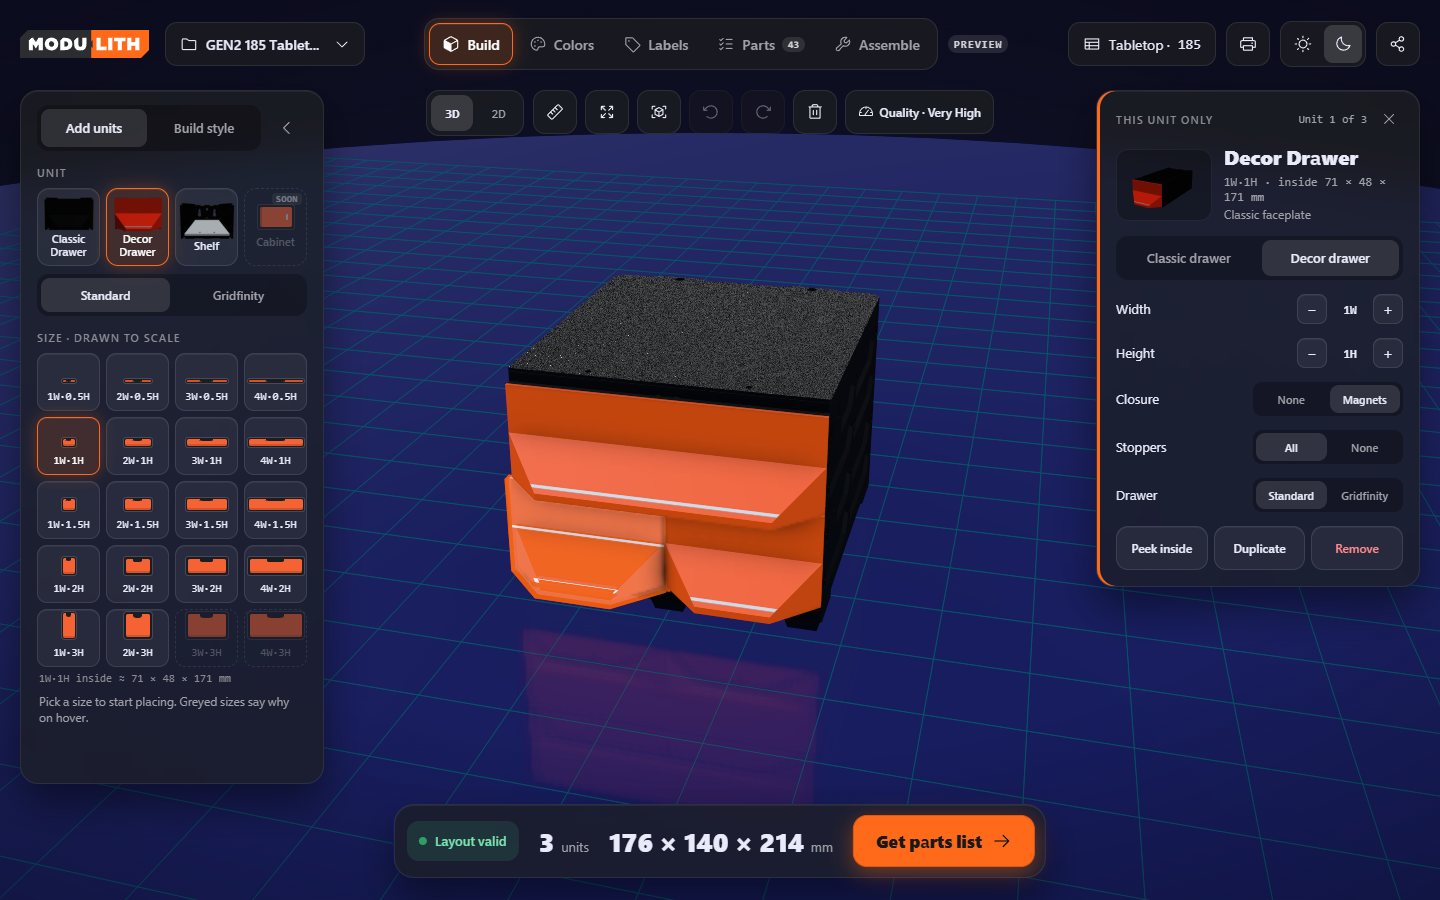
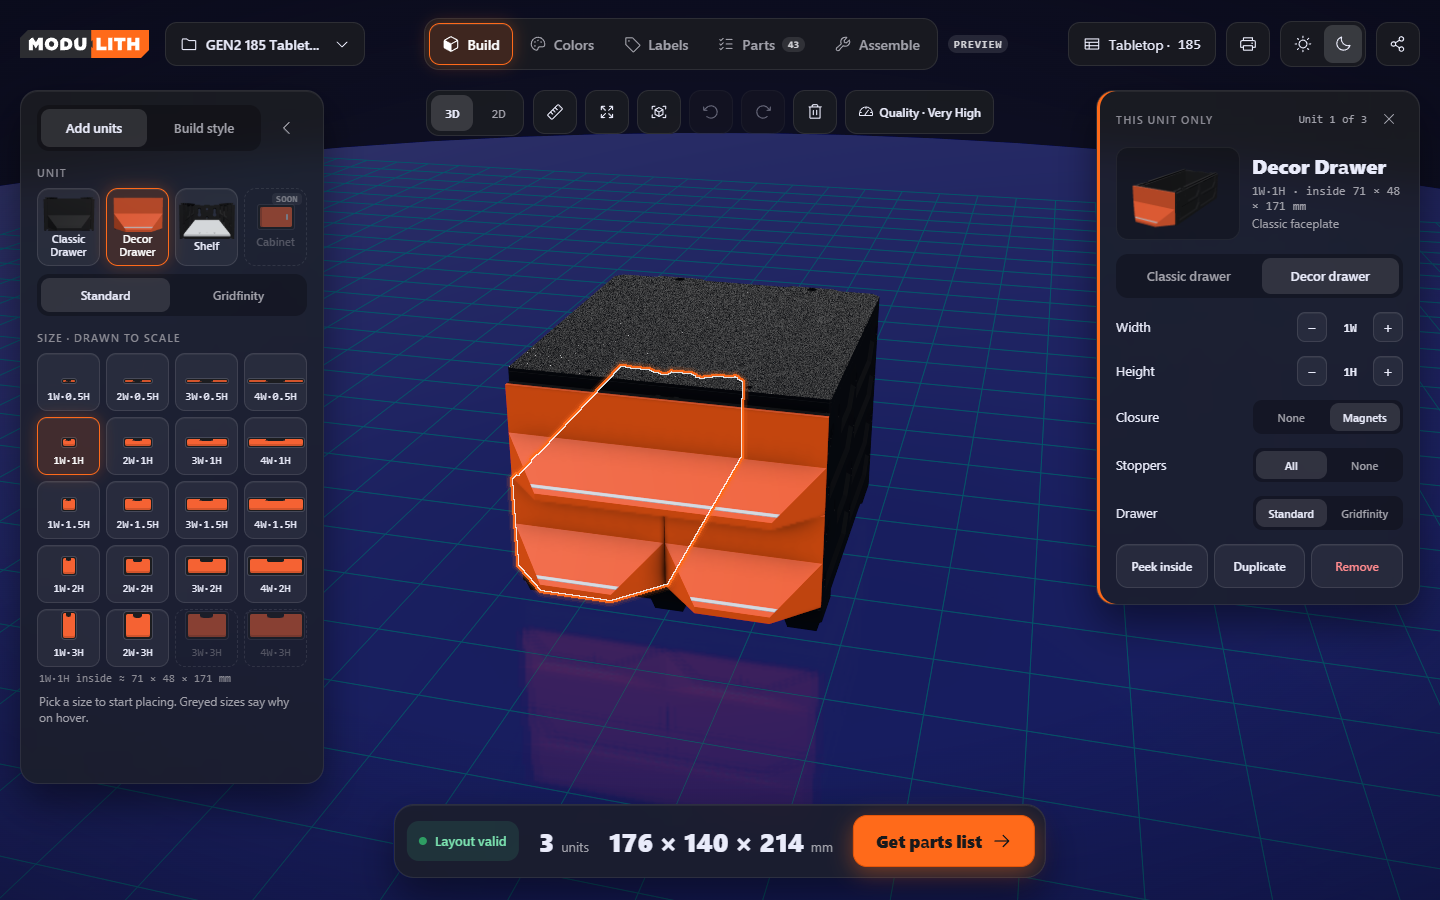
Selection as a screen-space silhouette, placement markers as controls, previews framed on the handle
The two-rim inverted hull highlight is gone: on a drawer with slotted walls it drew its own back faces through
the slots and over the plate, which read as the highlight clipping into the drawer. The selected unit's meshes are
now tagged into a camera layer and drawn into a mask after each frame's composite; a full-screen pass draws a
2.2 px orange ring where the mask ends, a glow that fades in three steps, and a one-pixel white line inside. The
rim colour is given in sRGB components, since a raw shader writes unconverted. Nothing is added to the scene, so
the material appearance is untouched (Astra's condition).

Placement markers are screen-facing sprites, a round orange control with a white plus, with the full ghost on
hover or a touch choice; only the visible marker or ghost is a hit target. Handle previews are framed around the
handle with the plate behind for context; the inspector preview fills a 124 x 93 well at a 512 px render.

Decisions recorded: gravity stays (Joey), mobile is an explicit milestone before cutover (after Colors), Colors'
acceptance check (model, option previews and inspector agree after a colour change, a build switch and Undo).

Review: Sol 01a1330b, three findings confirmed and fixed. Goldens 60/60; stage import green.

diff --git a/js/main.js b/js/main.js
@@ -6000,11 +6000,56 @@ let selAnchor = new THREE.Vector3(); // selected part's bbox-center offset from 
 let selOutline = null;
 /* two rims: a white inner one that reads against an orange filament, an orange outer one that reads against
    the stage, so the selection is unmistakable whatever the unit wears */
-const selOutlineMats = [
-  { scale: 1.025, mat: new THREE.MeshBasicMaterial({ color: 0xffffff, side: THREE.BackSide, transparent: true, opacity: 0.95, depthWrite: false, toneMapped: false }) },
-  { scale: 1.055, mat: new THREE.MeshBasicMaterial({ color: 0xff6a1a, side: THREE.BackSide, transparent: true, opacity: 0.9, depthWrite: false, toneMapped: false }) },
-];
-function clearSelOutline() { if (selOutline) { scene.remove(selOutline); selOutline = null; } }
+/* ---- the selection silhouette (Astra 2026-10-14: "a thin outer silhouette that preserves the normal material
+   appearance") ---------------------------------------------------------------------------------------------------
+   Nothing is added to the scene. The selected unit's meshes are tagged into layer 1; each frame, after the
+   composite, they are drawn flat into a mask (an override material, the camera seeing layer 1 only), and a
+   full-screen pass draws an orange ring where the mask ends, a soft glow outside it and a one-pixel white line
+   inside, over the finished frame. The inverted hull it replaces drew its own back faces through a drawer's slots
+   and over the plate (Joey: "is the highlight clipping into the drawer?"). */
+const SEL_LAYER = 1;
+let selMembers = [], selFx = null;
+const _selClear = new THREE.Color();
+function ensureSelFx() {
+  if (selFx) return selFx;
+  const rt = new THREE.WebGLRenderTarget(4, 4, { depthBuffer: true });
+  const maskMat = new THREE.MeshBasicMaterial({ color: 0xffffff, toneMapped: false });
+  const mat = new THREE.ShaderMaterial({
+    // sRGB components, not a THREE.Color: a raw shader writes to the canvas unconverted, and Color stores linear (Sol 01a1330b)
+    uniforms: { tMask: { value: rt.texture }, uTexel: { value: new THREE.Vector2(1, 1) }, uColor: { value: new THREE.Vector3(255 / 255, 106 / 255, 26 / 255) } },
+    vertexShader: 'varying vec2 vUv; void main() { vUv = uv; gl_Position = vec4(position.xy, 0.0, 1.0); }',
+    fragmentShader: `
+      uniform sampler2D tMask; uniform vec2 uTexel; uniform vec3 uColor; varying vec2 vUv;
+      float m(vec2 o) { return texture2D(tMask, vUv + o * uTexel).a; }
+      void main() {
+        float c = m(vec2(0.0));
+        float ring = 0.0, g1 = 0.0, g2 = 0.0, g3 = 0.0, inner = 1.0;
+        for (int i = 0; i < 16; i++) {
+          float a = float(i) * 0.39269908;
+          vec2 d = vec2(cos(a), sin(a));
+          ring = max(ring, m(d * 2.2));
+          g1 = max(g1, m(d * 3.4)); g2 = max(g2, m(d * 4.6)); g3 = max(g3, m(d * 6.0));   // the glow fades out in three steps (Sol 01a1330b)
+          inner = min(inner, m(d * 1.4));
+        }
+        if (c > 0.5) { if (inner < 0.5) gl_FragColor = vec4(1.0, 1.0, 1.0, 0.85); else discard; return; }
+        if (ring > 0.5) { gl_FragColor = vec4(uColor, 0.95); return; }
+        if (g1 > 0.5) { gl_FragColor = vec4(uColor, 0.3); return; }
+        if (g2 > 0.5) { gl_FragColor = vec4(uColor, 0.16); return; }
+        if (g3 > 0.5) { gl_FragColor = vec4(uColor, 0.06); return; }
+        discard;
+      }`,
+    transparent: true, depthTest: false, depthWrite: false, toneMapped: false,
+  });
+  const qScene = new THREE.Scene(); const qCam = new THREE.OrthographicCamera(-1, 1, 1, -1, 0, 1);
+  qScene.add(new THREE.Mesh(new THREE.PlaneGeometry(2, 2), mat));
+  selFx = { rt, maskMat, mat, qScene, qCam };
+  return selFx;
+}
+function clearSelOutline() {
+  for (const inst of selMembers) inst.group.traverse(o => { if (o.isMesh) o.layers.disable(SEL_LAYER); });
+  selMembers = [];
+  invalidateFrame();
+}
 function unitMembers(host) {
   // the host and every instance whose `rides` chain reaches it (faceplate, handle, accent, label, cover)
   const out = [host];
@@ -6017,30 +6062,29 @@ function unitMembers(host) {
 }
 function showSelOutline(members) {
   clearSelOutline();
-  const g = new THREE.Group();
-  g.name = 'sel-outline';
-  const box = new THREE.Box3();
-  for (const inst of members) { inst.group.updateWorldMatrix(true, true); box.expandByObject(inst.group); }
-  if (box.isEmpty()) return;
-  const c = box.getCenter(new THREE.Vector3());
-  const unC = new THREE.Matrix4().makeTranslation(-c.x, -c.y, -c.z);
-  for (const { scale, mat } of selOutlineMats) {
-    const layer = new THREE.Group();
-    for (const inst of members) inst.group.traverse(o => {
-      if (!o.isMesh || !o.visible || !o.geometry) return;
-      const m = new THREE.Mesh(o.geometry, mat);
-      m.matrixAutoUpdate = false;
-      m.matrix.copy(o.matrixWorld).premultiply(unC);
-      m.castShadow = false; m.receiveShadow = false;
-      layer.add(m);
-    });
-    layer.scale.setScalar(scale);
-    g.add(layer);
+  selMembers = members.filter(Boolean);
+  for (const inst of selMembers) inst.group.traverse(o => { if (o.isMesh) o.layers.enable(SEL_LAYER); });
+  invalidateFrame();
+}
+/* drawn after the frame's composite (the loop), never into the accumulation or the AO passes */
+function drawSelOutline() {
+  if (!selMembers.length || !selMembers.some(i => i.group.visible)) return;
+  const fx = ensureSelFx();
+  const size = renderer.getDrawingBufferSize(new THREE.Vector2());
+  if (fx.rt.width !== size.x || fx.rt.height !== size.y) fx.rt.setSize(size.x, size.y);
+  const prevBg = scene.background, prevOv = scene.overrideMaterial, prevAuto = renderer.autoClear, prevMask = camera.layers.mask;
+  const prevClear = renderer.getClearColor(_selClear).clone(), prevAlpha = renderer.getClearAlpha();
+  try {
+    scene.background = null; scene.overrideMaterial = fx.maskMat; camera.layers.set(SEL_LAYER);
+    renderer.setRenderTarget(fx.rt); renderer.setClearColor(0x000000, 0); renderer.autoClear = true; renderer.clear();
+    renderer.render(scene, camera);
+  } finally {
+    scene.background = prevBg; scene.overrideMaterial = prevOv; camera.layers.mask = prevMask;
+    renderer.setRenderTarget(null); renderer.setClearColor(prevClear, prevAlpha); renderer.autoClear = prevAuto;
   }
-  g.position.copy(c);
-  g.renderOrder = -1;
-  scene.add(g);
-  selOutline = g;
+  fx.mat.uniforms.uTexel.value.set(1 / size.x, 1 / size.y);
+  renderer.autoClear = false;
+  try { renderer.render(fx.qScene, fx.qCam); } finally { renderer.autoClear = prevAuto; }
 }
 /* The shelf whose lip the identify card is editing (null when the selection is
    anything else). Assigned in setSelected, read by cycleLip further down.
@@ -7979,7 +8023,7 @@ canvas.addEventListener('pointerup', e => {
 const editGroup = new THREE.Group(); editGroup.name = 'edit-overlays'; scene.add(editGroup);
 const SPOT_COLORS = { add: 0xffcf5a, need: 0xff5a5a, hover: 0x5ad67a };
 let spotSpec = null, spotHover = null, flagHelpers = [], carry = null, dragSpec = null, eraser = null, eraseHelper = null, eraseId = null;
-function disposeObj(o) { o.traverse(c => { if (c.geometry) c.geometry.dispose(); if (c.material) c.material.dispose(); }); }
+function disposeObj(o) { o.traverse(c => { if (c.geometry) c.geometry.dispose(); if (c.material && !c.isSprite) c.material.dispose(); }); }   // sprite materials share the marker textures
 /* a cell's place in the world comes from a case the scene already holds: 88 mm per column, 28 mm per half row from it.
    Heights are compared as half-rows ABOVE THE MOUNT FRAME (the generator's own normalisation), because the caller's
    grid can differ from this record's (the store's tabletop grid tracks the build; the kit file's does not):
@@ -8017,19 +8061,29 @@ function plusMark(w, h, d, opacity = 0.85) {
 /* A SPOT is a small marker at the centre of the cell it names (Astra: quiet targets, never volumes that overlap and hide
    the build) plus a full-size translucent ghost of the unit that shows only for the hovered or chosen spot. The marker
    is drawn through everything (no depth test) so it is never lost behind a drawer; the ghost is the volume. */
-const SPOT_MARK = 18;
+const SPOT_MARK = 26;   // mm, the marker's world size (it always faces the camera)
+const spotTextures = {};
+function spotTexture(hex) {   // a round orange control with a white plus, drawn once per colour
+  if (spotTextures[hex]) return spotTextures[hex];
+  const cv = document.createElement('canvas'); cv.width = cv.height = 128; const c = cv.getContext('2d');
+  c.beginPath(); c.arc(64, 64, 58, 0, Math.PI * 2); c.fillStyle = '#' + hex.toString(16).padStart(6, '0'); c.fill();
+  c.lineWidth = 6; c.strokeStyle = 'rgba(255,255,255,0.95)'; c.stroke();
+  c.strokeStyle = '#ffffff'; c.lineWidth = 12; c.lineCap = 'round';
+  c.beginPath(); c.moveTo(64, 34); c.lineTo(64, 94); c.moveTo(34, 64); c.lineTo(94, 64); c.stroke();
+  const t = new THREE.CanvasTexture(cv); t.colorSpace = THREE.SRGBColorSpace;
+  spotTextures[hex] = t; return t;
+}
 function spotBox(w, hh, world, color) {
   const d = Math.max(20, world.depth - 6);
   const spot = new THREE.Group();
   spot.position.set(world.x, world.y, world.z);
-  const marker = new THREE.Mesh(new THREE.BoxGeometry(SPOT_MARK, SPOT_MARK, SPOT_MARK), new THREE.MeshBasicMaterial({ color, transparent: true, opacity: 0.9, depthWrite: false, depthTest: false }));
-  marker.renderOrder = 998; marker.userData.ghost = true; marker.userData.marker = true;
-  marker.add(plusMark(SPOT_MARK, SPOT_MARK, SPOT_MARK, 0.95));
+  const marker = new THREE.Sprite(new THREE.SpriteMaterial({ map: spotTexture(color), transparent: true, depthTest: false, depthWrite: false, toneMapped: false }));
+  marker.scale.set(SPOT_MARK, SPOT_MARK, 1); marker.renderOrder = 998; marker.userData.ghost = true; marker.userData.marker = true;
   const ghost = new THREE.Mesh(new THREE.BoxGeometry(w * 88 - 6, hh * 28 - 6, d), new THREE.MeshBasicMaterial({ color, transparent: true, opacity: 0.3, depthWrite: false }));
   ghost.renderOrder = 997; ghost.userData.ghost = true; ghost.visible = false;
   ghost.add(new THREE.LineSegments(new THREE.EdgesGeometry(ghost.geometry), new THREE.LineBasicMaterial({ color: 0xffffff, transparent: true, opacity: 0.7, depthTest: false })));
   spot.add(marker, ghost);
-  spot.userData.marker = marker; spot.userData.ghost = ghost; spot.userData.ghostShape = true;
+  spot.userData.marker = marker; spot.userData.ghost = ghost;
   return spot;
 }
 /* spec: { spots: [{ x, y, w?, hh?, kind?: 'add' | 'need' }], w, hh, rows, onPick(spot), onChoose?(spot | null) } | null -
@@ -8054,7 +8108,7 @@ function spotStyle() {
     if (!g.userData.spot) continue;
     const sp = g.userData.spot, hov = spotHover === g, chosen = spotChosen === g;
     const col = hov || chosen ? SPOT_COLORS.hover : SPOT_COLORS[sp.kind || 'add'];
-    g.userData.marker.material.color.setHex(col);
+    g.userData.marker.material.map = spotTexture(col);
     g.userData.ghost.material.color.setHex(col);
     g.userData.ghost.visible = hov || chosen;
     g.userData.marker.visible = !(hov || chosen);
@@ -8075,7 +8129,8 @@ function spotAt(e) {
   if (!spotSpec) return null;
   castAt(e);
   editGroup.updateMatrixWorld(true);   // markers added since the last frame have no world matrix yet (the loop idles while hidden)
-  const targets = []; for (const g of editGroup.children) if (g.userData.spot) targets.push(g.userData.marker, g.userData.ghost);
+  // only what is on screen is a target: the marker, or the ghost while it stands in for it (Sol 01a1330b: a hidden ghost is a hit area with no control shown)
+  const targets = []; for (const g of editGroup.children) if (g.userData.spot) targets.push(g.userData.ghost.visible ? g.userData.ghost : g.userData.marker);
   const hits = ray.intersectObjects(targets, false);
   return hits.length ? hits[0].object.parent : null;
 }
@@ -8206,10 +8261,10 @@ let thumbScene = null, thumbCam = null, thumbRT = null;
 function paletteSig() { return Object.keys(manifest.colors || {}).sort().map(k => k + '=' + activeHex(k)).join(',') + '|' + stageTheme + '|' + (useCustom ? 1 : 0); }
 async function renderThumb(opts = {}) {
   if (!build) return null;
-  const { fill = 'decor', w = 1, hh = 2, faceStyle = build.faceStyle, handleStyle = build.handleStyle, variant = null, lip = null, view = 'front', size = 384 } = opts;
+  const { fill = 'decor', w = 1, hh = 2, faceStyle = build.faceStyle, handleStyle = build.handleStyle, variant = null, lip = null, view = 'front', size = 384, frame = 'unit', fit = 1.08 } = opts;
   const handle = opts.handle || (activeHandleStyle && activeHandleStyle.planner === handleStyle ? activeHandleStyle : null);
   const sig = paletteSig();
-  const key = JSON.stringify([build.length, fill, w, hh, faceStyle, handleStyle, variant, lip, view, size, handle && handle.node, build.buildPlate, sig]);
+  const key = JSON.stringify([build.length, fill, w, hh, faceStyle, handleStyle, variant, lip, view, size, frame, fit, handle && handle.node, build.buildPlate, sig]);
   if (thumbCache.has(key)) return thumbCache.get(key);
   const job = (async () => {
     const gridH = Math.max(1, Math.ceil(hh / 2));
@@ -8247,6 +8302,7 @@ async function renderThumb(opts = {}) {
         if (fp && templates[fp.node]) pos = [c.pos[0], fp.pos[1] + (faceplateHeightOf(fp.node) - handle.h) / 2 - 0.5, fp.pos[2] + nodeDepth(fp.node) / 2 + handle.d / 2];
       }
       const g = templates[node].clone(true);
+      g.userData.node = node;
       g.position.set(pos[0], pos[1], pos[2]);
       const rot = c.rot || [0, c.yaw || 0, 0];
       g.rotation.set(THREE.MathUtils.degToRad(rot[0]), THREE.MathUtils.degToRad(rot[1]), THREE.MathUtils.degToRad(rot[2]));
@@ -8255,7 +8311,12 @@ async function renderThumb(opts = {}) {
       group.add(g);
     }
     thumbScene.add(group); group.updateWorldMatrix(true, true);
-    const box = new THREE.Box3().setFromObject(group);
+    let box = new THREE.Box3().setFromObject(group);
+    if (frame === 'handle') {   // Astra: frame the handle, with just enough plate behind it for context
+      const hb = new THREE.Box3();
+      for (const g of group.children) if (typeByNode[g.userData.node] === 'Handle') hb.expandByObject(g);
+      if (!hb.isEmpty()) { const hs = hb.getSize(new THREE.Vector3()); hb.expandByVector(new THREE.Vector3(hs.x * 0.35 + 6, hs.y * 0.9 + 10, 0)); box = hb; }
+    }
     const c = box.getCenter(new THREE.Vector3()), sz = box.getSize(new THREE.Vector3());
     const W = size, H = Math.round(size * 3 / 4);
     if (!thumbRT || thumbRT.width !== W || thumbRT.height !== H) {
@@ -8267,7 +8328,7 @@ async function renderThumb(opts = {}) {
     const fovV = THREE.MathUtils.degToRad(thumbCam.fov), fovH = 2 * Math.atan(Math.tan(fovV / 2) * thumbCam.aspect);
     const dir = (view === 'front' ? new THREE.Vector3(0, 0.1, 1) : new THREE.Vector3(0.6, 0.35, 1)).normalize();
     const fitW = view === 'front' ? sz.x : sz.x * 0.85 + sz.z * 0.55;
-    const dist = Math.max((sz.y / 2) / Math.tan(fovV / 2), (fitW / 2) / Math.tan(fovH / 2)) * 1.12 + sz.z / 2;
+    const dist = Math.max((sz.y / 2) / Math.tan(fovV / 2), (fitW / 2) / Math.tan(fovH / 2)) * fit + (frame === 'handle' ? 0 : sz.z / 2);
     thumbCam.position.copy(c).add(dir.multiplyScalar(dist)); thumbCam.lookAt(c); thumbCam.updateMatrixWorld(true);
     const prevRT = renderer.getRenderTarget(), prevClear = renderer.getClearColor(new THREE.Color()), prevAlpha = renderer.getClearAlpha();
     renderer.setRenderTarget(thumbRT); renderer.setClearColor(0x000000, 0); renderer.clear();
@@ -9941,6 +10002,7 @@ function renderLoop(now) {
   const accDrew = !!guardFx('accum', accumFrame);
   if (!accDrew) renderer.render(scene, camera);
   if (!lite) guardFx('ao', compositeAO);   // laid over the finished frame; no composer in the path
+  guardFx('selfx', drawSelOutline);   // the selection silhouette, over everything (phase 3)
   if (settleBench) settleBench.afterFrame({ accDrew, lite });   // the frame's post-render settle state (settle-bench.js)
   // partReady only after a REAL rendered frame exists — posted from inside the
   // loop, not after mount, so the site never drops its poster onto a blank

diff --git a/js/workspaces/build.js b/js/workspaces/build.js
@@ -432,7 +432,7 @@ export function mountBuild(stage, ctx) {
       const curH = stage.currentHandleStyle();
       const shape = (label) => /crystal/i.test(label) ? 'crystal' : /block/i.test(label) ? 'blockbar' : 'deco';
       hs.appendChild(el('div.handles', {}, stage.HANDLE_STYLES.map((h) => el('button.handle.key' + (curH?.node === h.node ? '.on' : ''), { onclick: async () => { await stage.applyHandleStyle(h); await adopt(); } },
-        [preview(el('span.shape.' + shape(h.label), { style: `background:${colors.handle}` }), { fill: 'decor', w: 1, hh: 2, faceStyle: cur.key, handleStyle: h.planner, handle: h, view: 'three' }, 'handle'), h.label]))));
+        [preview(el('span.shape.' + shape(h.label), { style: `background:${colors.handle}` }), { fill: 'decor', w: 1, hh: 2, faceStyle: cur.key, handleStyle: h.planner, handle: h, view: 'three', frame: 'handle', fit: 1.0 }, 'handle'), h.label]))));
       lib.appendChild(hs);
     }
 
@@ -513,7 +513,7 @@ export function mountBuild(stage, ctx) {
     insp.append(
       el('div.head', {}, [el('h2.h2', { text: 'This unit only' }), el('span.idx', { text: `Unit ${idx} of ${s.placed.length}` }), closeBtn]),
       el('div.ident', {}, [
-        el('div.wellbox.well', {}, [preview(glyphEl(kind, 79, 50, { ...colors, front: frontFor(unit.fill) }), { fill: unit.fill, w: unit.w, hh: unit.hh, variant: unit.variant || null, lip: unit.lip || null, view: 'three' }, 'insp')]),
+        el('div.wellbox.well', {}, [preview(glyphEl(kind, 79, 50, { ...colors, front: frontFor(unit.fill) }), { fill: unit.fill, w: unit.w, hh: unit.hh, variant: unit.variant || null, lip: unit.lip || null, view: 'three', fit: 1.0, size: 512 }, 'insp')]),
         el('div.col', {}, [
           el('h3', { text: fill?.label || unit.fill }),
           el('div.dims', { text: `${unit.w}W·${unit.hh / 2}H · inside ${unit.w * 88 - wall.wWall} × ${Math.round((unit.hh / 2) * 56 - wall.hWall)} × ${INSIDE[length] ?? length} mm` }),

diff --git a/css/app.css b/css/app.css
@@ -144,7 +144,7 @@ html[data-ws] #stage-wrap { inset: 0 !important; top: 0 !important; bottom: 0 !i
 #ws-insp .head .idx { font-family: var(--font-mono); font-size: 11px; color: var(--ink-2); }
 #ws-insp .head .x { width: 28px; height: 28px; padding: 0; border: none; background: transparent; color: var(--ink-2); border-radius: 8px; cursor: pointer; display: inline-flex; align-items: center; justify-content: center; }
 #ws-insp .ident { display: flex; align-items: center; gap: 12px; }
-#ws-insp .ident .wellbox { display: flex; align-items: center; justify-content: center; width: 96px; height: 72px; flex: none; border-radius: 12px; }
+#ws-insp .ident .wellbox { display: flex; align-items: center; justify-content: center; width: 124px; height: 93px; flex: none; border-radius: 12px; overflow: hidden; }
 #ws-insp .ident .col { min-width: 0; }
 #ws-insp h3 { margin: 0; font-family: var(--font-display); font-weight: 800; font-size: 20px; font-stretch: 108%; line-height: 1.15; }
 #ws-insp .dims { margin-top: 4px; font-family: var(--font-mono); font-size: 12px; color: var(--ink-2); }
@@ -346,7 +346,7 @@ html.ws-parts-wide[data-ws="parts"] #ws-tools { left: 860px; }
 #ws .pv.tile img { width: 60px; height: 45px; margin: -8px 0 -6px; }
 #ws .pv.face img { width: 60px; height: 45px; margin: -8px 0 -8px; }
 #ws .pv.handle img { width: 64px; height: 48px; margin: -10px 0 -10px; }
-#ws .pv.insp img { width: 96px; height: 72px; }
+#ws .pv.insp img { width: 124px; height: 93px; }
 
 /* ---- toast ---- */
 #ws-toast { position: absolute; left: 50%; bottom: 100px; transform: translateX(-50%); padding: 10px 14px; border-radius: 12px; font-size: 13px; font-weight: 600; opacity: 0; transition: opacity var(--d-pop) var(--ease-out); pointer-events: none; }

diff --git a/docs/redesign/DECISIONS.md b/docs/redesign/DECISIONS.md
@@ -48,3 +48,11 @@ Dated calls made while building, with who made them. The brief and the inventory
 
 - **Product-faithful previews are live, from the GLBs.** (The standing requirement of 2026-10-12, executed; Joey: "go ahead with the previews".) The stage renders one unit of the asked size, fill, faceplate family, handle variant and drawer variant through the real generator and the real part models, with the SAME shared materials the model wears (a filament pick, the dark-stage palette and the plate finish follow), into an offscreen target, cached as a PNG per option set and palette. Where they show: the unit tiles (1W·1H of each fill, front), every faceplate tile (the family on a 1W·1H Decor drawer, front), every handle tile (the variant on the current plate, three-quarter), and the inspector (the selected unit at its size and options, three-quarter). The generated glyph stands in until the image is ready and stays where no model exists (Cabinet) or a part is missing from the library. Size tiles keep the proportional glyphs, as allowed.
 
+## 2026-10-14 (Astra's review of the previews, applied)
+
+- **The selection is a screen-space silhouette.** (Astra: "a thin outer silhouette that preserves the normal material appearance"; Joey saw the hull "clipping into the drawer".) The two-rim inverted hull of 2026-10-12 is gone: on a drawer with slotted walls it drew its own back faces through the slots and over the plate. Now the selected unit's meshes are drawn into a mask after the frame and a full-screen pass draws a 2.2 px orange ring where the mask ends, a soft glow outside and a one-pixel white line inside. Nothing is added to the scene; the material appearance is untouched. Astra's earlier acceptance of the hull covered those screenshots only.
+- **Placement markers are controls.** (Astra.) A round orange disc with a white plus that always faces the camera, 26 mm, drawn through everything; the full ghost still appears on hover or a touch choice. The little cubes read as parts.
+- **Handle previews are framed around the handle** with just enough plate behind for context, and the inspector preview is as large as its well allows (124 × 93 at a 512 px render). (Astra.)
+- **Mobile is an explicit milestone before cutover.** (Astra.) Colors next, then a dedicated phone phase covering the bottom-sheet layout, the bottom tab bar, and the repeated-placement problem found in the prototype; the prototype's phone behaviour establishes nothing about this implementation.
+- **Colors' acceptance check** (Astra, recorded for phase 4): change a faceplate or handle colour and the main model, the option previews and the inspector agree, after switching builds and after Undo as well. The previews already key their cache on the live palette signature, so the check is of the whole chain, not of the cache alone.
+
